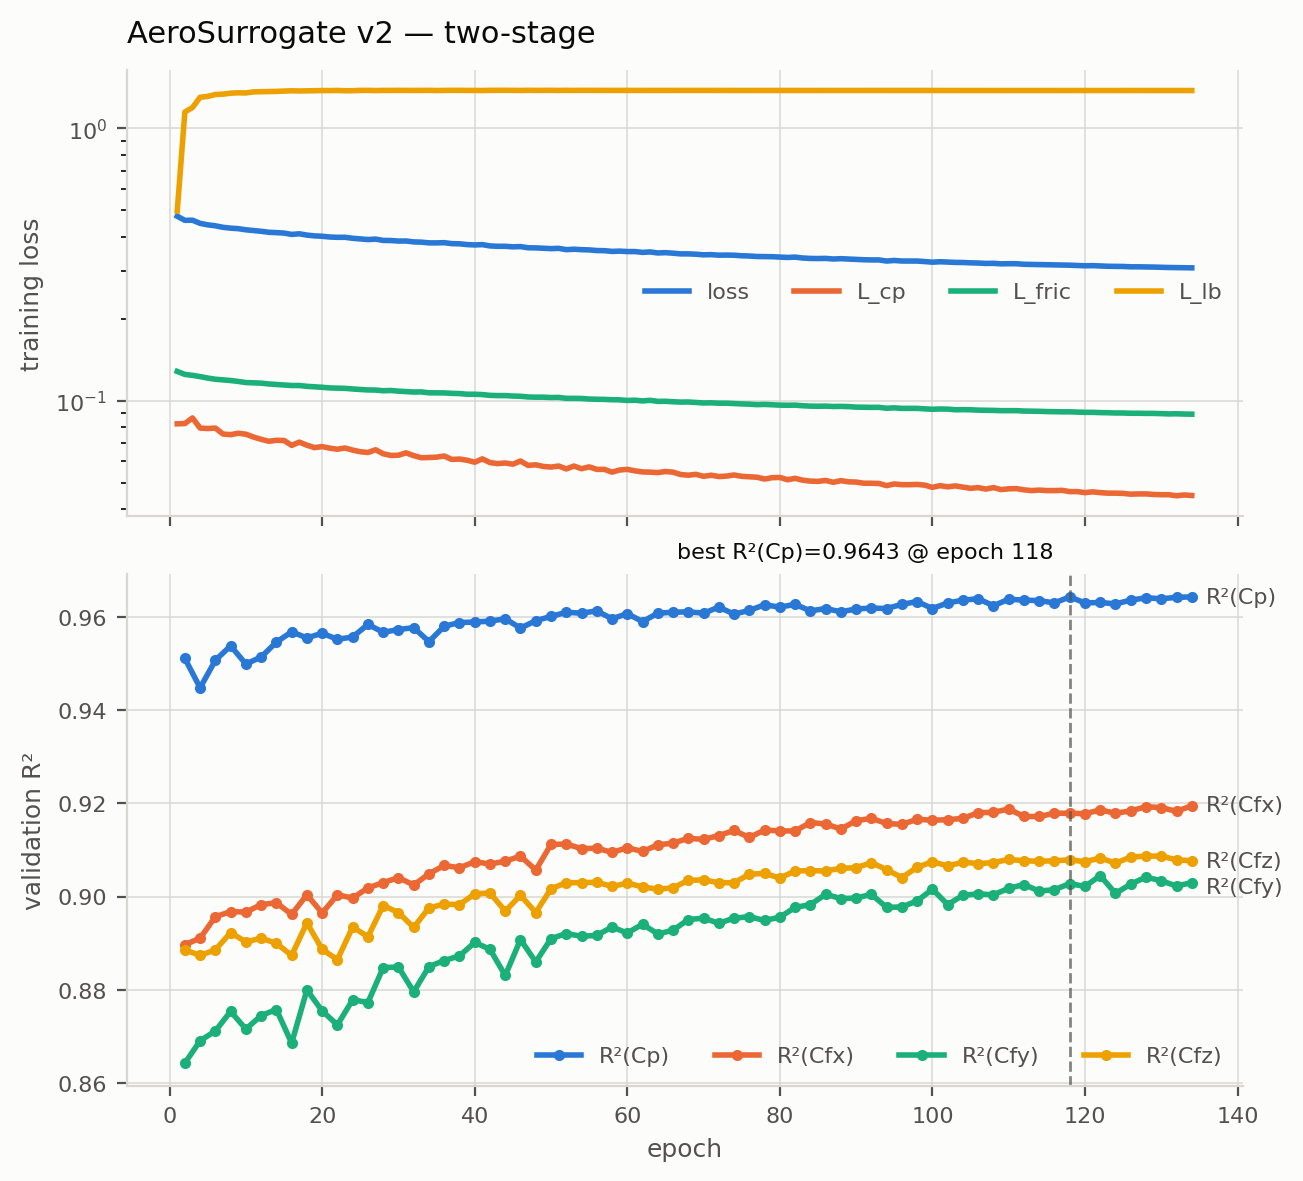
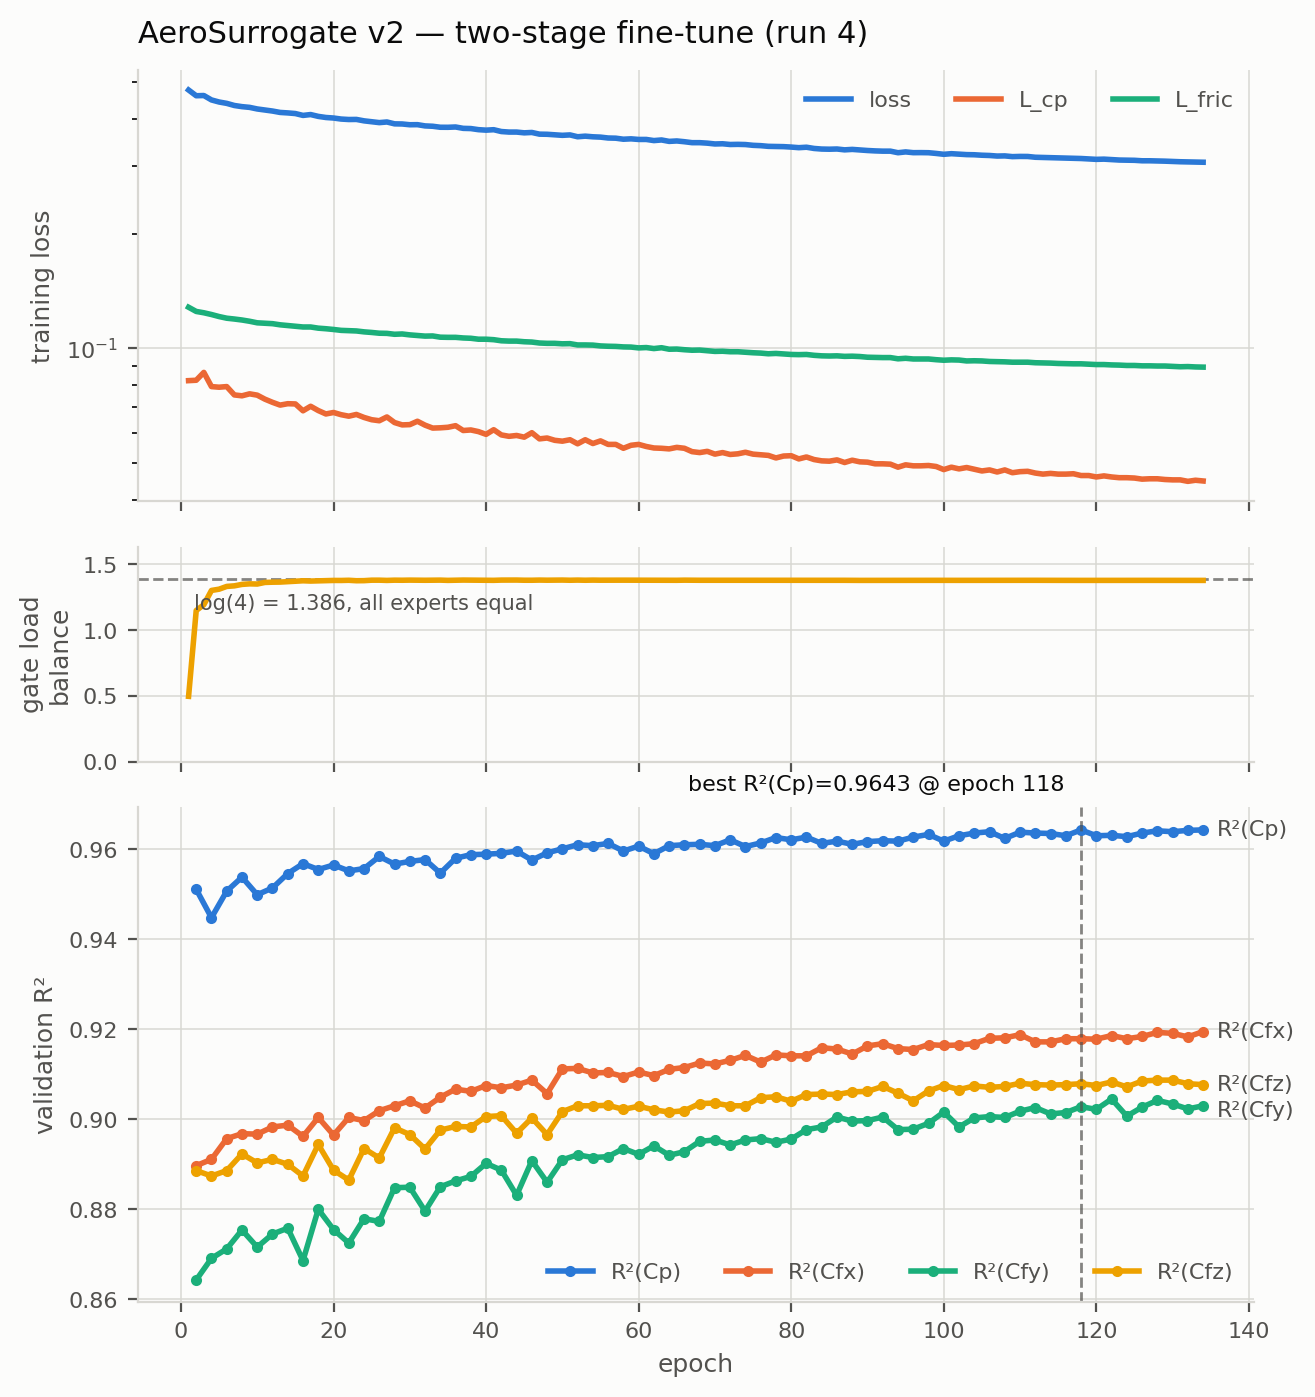
Record run 4 as the model to report; fix Tee buffering and the L_lb panel
Run 4 (two-stage, 200 epochs, DDP synchronised) converged on patience at
epoch 134, best at 118, and reaches R²(Cp) 0.9729 global / 0.9350 shock over
the held-out 140 sims — beating run 2 despite being measured on the stricter
unbiased subset rather than all 156.

The uploaded surrogate_v2_moefix_long_evaluation.txt was 0 bytes while the
report itself had landed in gate_moefix_long.txt via a shell redirect. The
empty file was my bug: _Tee never flushed, and the report is smaller than the
default buffer, so a run killed part-way wrote nothing at all instead of the
partial results it had already produced. Tee now flushes per write, and the
report is filed under its own name.

L_lb was being drawn in the training-loss panel, where an entropy the loss
*maximises* reads as a diverging run. It gets its own panel against the
log(num_experts) ceiling, which turns it into the clearest evidence in the
figure: load balance climbs 0.50 -> 1.379 within a few epochs and holds.

diff --git a/version 2/plot_training_curve.py b/version 2/plot_training_curve.py
@@ -13,6 +13,7 @@ Usage:
 """
 import argparse
 import csv
+import math
 import re
 import sys
 from pathlib import Path
@@ -94,15 +95,21 @@ def plot(rows, out_png, stop_epoch=None, title=None):
     matplotlib.use('Agg')
     import matplotlib.pyplot as plt
 
-    ep = [r['epoch'] for r in rows]
-    fig, (ax1, ax2) = plt.subplots(
-        2, 1, figsize=(7.2, 6.6), dpi=200, sharex=True,
-        gridspec_kw={'height_ratios': [1, 1.15], 'hspace': 0.12})
+    has_lb = any('L_lb' in r for r in rows)
+    n_rows = 3 if has_lb else 2
+    heights = [1, 0.5, 1.15] if has_lb else [1, 1.15]
+    fig, axes = plt.subplots(
+        n_rows, 1, figsize=(7.2, 8.0 if has_lb else 6.6), dpi=200, sharex=True,
+        gridspec_kw={'height_ratios': heights, 'hspace': 0.12})
+    ax1, ax2 = (axes[0], axes[-1])
+    ax_lb    = axes[1] if has_lb else None
     fig.patch.set_facecolor(SURFACE)
 
     # ── Panel A: training losses. Separate panel rather than a second y-axis:
     # losses and R² have unrelated scales and must never share an axis.
-    loss_keys = [k for k in ('loss', 'L_cp', 'L_fric', 'L_lb')
+    # L_lb is excluded — it is an entropy that the loss *maximises*, so showing
+    # it rising in a panel labelled "training loss" reads as a diverging run.
+    loss_keys = [k for k in ('loss', 'L_cp', 'L_fric')
                  if any(k in r for r in rows)]
     for i, k in enumerate(loss_keys):
         xs = [r['epoch'] for r in rows if k in r]
@@ -115,6 +122,24 @@ def plot(rows, out_png, stop_epoch=None, title=None):
     ax1.legend(frameon=False, fontsize=8, labelcolor=INK_MUTED, ncol=len(loss_keys))
     if title:
         ax1.set_title(title, color=INK, fontsize=11, loc='left', pad=10)
+
+    # ── Panel LB: MoE gate load balance. L_lb is the entropy of the mean gate;
+    # log(num_experts) means every expert carries an equal share, 0 means the
+    # gate has collapsed onto one. Shown against that ceiling so the reader can
+    # see how far from balanced the mixture actually is.
+    if ax_lb is not None:
+        xs = [r['epoch'] for r in rows if 'L_lb' in r]
+        ys = [r['L_lb'] for r in rows if 'L_lb' in r]
+        n_exp = 4
+        hmax  = math.log(n_exp)
+        ax_lb.axhline(hmax, color=INK_MUTED, linewidth=1, linestyle='--', alpha=0.7)
+        ax_lb.annotate(f'log({n_exp}) = {hmax:.3f}, all experts equal',
+                       xy=(xs[0], hmax), xytext=(2, -11),
+                       textcoords='offset points', fontsize=7.5, color=INK_MUTED)
+        ax_lb.plot(xs, ys, color=SERIES[3], linewidth=2)
+        ax_lb.set_ylim(0, hmax * 1.18)
+        _style(ax_lb)
+        ax_lb.set_ylabel('gate load\nbalance', color=INK_MUTED, fontsize=9)
 
     # ── Panel B: validation R², the early-stopping criterion.
     coefs = ['Cp', 'Cfx', 'Cfy', 'Cfz']

diff --git a/version 2/evaluate_v2.py b/version 2/evaluate_v2.py
@@ -20,13 +20,19 @@ from pathlib import Path
 
 
 class _Tee:
-    """Duplicates writes to stdout and a log file simultaneously."""
+    """Duplicates writes to stdout and a log file simultaneously.
+
+    Flushes on every write: the report is smaller than the default buffer, so
+    without this a run killed part-way leaves a 0-byte file instead of the
+    partial results it had already produced.
+    """
     def __init__(self, *streams):
         self.streams = streams
 
     def write(self, data):
         for s in self.streams:
             s.write(data)
+            s.flush()
 
     def flush(self):
         for s in self.streams:

diff --git a/version 2/outputs/README.md b/version 2/outputs/README.md
@@ -6,38 +6,54 @@ outputs/
 │   ├── scaler_v2.npy                       feature/target normalisation
 │   ├── spatial_stats_v2.npy                spatial stats fitted on train
 │   ├── surrogate_v2_best.pt                run 1 — MoE gate COLLAPSED
-│   ├── surrogate_v2_moefix.pt              run 2 — two-stage      ← best
-│   └── surrogate_v2_full.pt                run 3 — from scratch, fixed loss
+│   ├── surrogate_v2_moefix.pt              run 2 — two-stage
+│   ├── surrogate_v2_full.pt                run 3 — from scratch, fixed loss
+│   └── surrogate_v2_moefix_long.pt         run 4 — two-stage, 200ep, DDP fixed ← best
 ├── results/
 │   ├── v2_evaluation_collapsed_gate.txt    run 1
 │   ├── v2_evaluation_moefix.txt            run 2  (= surrogate_v2_moefix_evaluation.txt)
 │   ├── surrogate_v2_moefix_evaluation.txt  run 2, re-run under the derived name
-│   └── surrogate_v2_full_evaluation.txt    run 3
+│   ├── surrogate_v2_full_evaluation.txt    run 3
+│   ├── surrogate_v2_moefix_long_evaluation.txt  run 4, held-out 140 sims
+│   └── gate_moefix_long.txt                diagnose_gate.py on run 4
 └── plots/
-    └── gate_diagnostic_moefix.png          diagnose_gate.py on run 2
+    ├── gate_diagnostic_moefix.png          diagnose_gate.py on run 2
+    ├── moefix_long.png                     run 4 training curve
+    └── moefix_long.csv                     run 4 per-epoch metrics
 ```
 
-## The three runs
+## The four runs
 
-| | schedule | best epoch | stopped | converged? |
-|---|---|---|---|---|
-| `surrogate_v2_best.pt` | 200, from scratch | 157 | 174 | yes |
-| `surrogate_v2_moefix.pt` | 50, head-only fine-tune | 45 | 50 = **cap** | **no** |
-| `surrogate_v2_full.pt` | 200, from scratch | 175 | 192 | yes |
+| | schedule | best epoch | stopped | converged? | DDP |
+|---|---|---|---|---|---|
+| `surrogate_v2_best.pt` | 200, from scratch | 157 | 174 | yes | unsynced |
+| `surrogate_v2_moefix.pt` | 50, head-only fine-tune | 45 | 50 = **cap** | **no** | unsynced |
+| `surrogate_v2_full.pt` | 200, from scratch | 175 | 192 | yes | unsynced |
+| `surrogate_v2_moefix_long.pt` | 200, head-only fine-tune | 118 | 134 | yes | **synced** |
+
+"unsynced" means the run predates commit `9fe5f2e`: DDP was constructed and then
+bypassed, so gradients were never all-reduced and each rank trained alone on
+1/world_size of the sims. Those three checkpoints are penalised by however many GPUs
+they used; treat their numbers as a floor.
 
 **Run 1 — `surrogate_v2_best.pt`.** Trained *before* the load-balancing sign bug was
 found, so its MoE gate is collapsed onto a single expert. Keep it: it is the ablation
 baseline that shows what the mixture contributes.
 
 **Run 2 — `surrogate_v2_moefix.pt`.** Head-only fine-tune from run 1 with the corrected
-loss (`--freeze-backbone`, backbone = 75.4% of params held fixed). **Most accurate model
-by a clear margin.** Note it stopped at the epoch cap, not on patience — it was still
-improving.
+loss (`--freeze-backbone`, backbone = 75.4% of params held fixed). Superseded by run 4,
+which is the same recipe given enough epochs to converge — run 2 stopped at its cap, not
+on patience, so it was still improving when the budget ran out.
 
-**Run 3 — `surrogate_v2_full.pt`.** From scratch with the corrected loss. Healthiest
-gate of the three, converged properly — and yet *less accurate than run 2 everywhere*.
-Training the backbone and the gate together from scratch is worse than letting the
-backbone mature first and specialising the head afterwards.
+**Run 3 — `surrogate_v2_full.pt`.** From scratch with the corrected loss. Healthy gate,
+converged properly — and yet *less accurate than run 2 everywhere*. Training the backbone
+and the gate together from scratch came out worse than letting the backbone mature first
+and specialising the head afterwards.
+
+**Run 4 — `surrogate_v2_moefix_long.pt`.** Same two-stage recipe as run 2 (resume from
+run 1, `--freeze-backbone`) but with a 200-epoch budget and with DDP gradient
+synchronisation fixed. Converged on patience at epoch 134, best at 118. **This is the
+model to report.**
 
 ## What the fix changed
 
@@ -46,25 +62,31 @@ the gate toward collapse instead of away from it. Sign corrected in commit `45cb
 
 Gate diagnostics, 3 test sims (`python diagnose_gate.py 3 --ckpt <ckpt>`):
 
-| | run 1 collapsed | run 2 moefix | run 3 full |
-|---|---|---|---|
-| load balance (entropy of mean gate, max 1.3863) | 0.0771 — 5.6% | 1.3801 — 99.6% | **1.3832 — 99.8%** |
-| dead experts (<1% usage) | E1, E3 | none | none |
-| shock specialisation (TV, shock vs non-shock) | 0.0175 | 0.3167 | **0.3767** |
-| routing sharpness (mean per-node entropy) | 0.0009 | 0.0610 | 0.0347 |
+| | run 1 collapsed | run 2 moefix | run 3 full | run 4 moefix_long |
+|---|---|---|---|---|
+| load balance (entropy of mean gate, max 1.3863) | 0.0771 — 5.6% | 1.3801 — 99.6% | **1.3832 — 99.8%** | 1.3777 — 99.4% |
+| dead experts (<1% usage) | E1, E3 | none | none | none |
+| shock specialisation (TV, shock vs non-shock) | 0.0175 | 0.3167 | **0.3767** | 0.2789 |
+| routing sharpness (mean per-node entropy) | 0.0009 | 0.0610 | 0.0347 | 0.0817 |
+| shock indicator F1 | — | 0.9478 | 0.9254 | **0.9564** |
+| shock residual contribution to Cp MAE | — | +59.3% | +62.3% | **+78.6%** |
 
-Run 3 has the healthiest gate of the three — and in it the specialisation is physically
-legible: on shock nodes E2 and E3 carry 0.44 and 0.38, while off shock all four experts
-split roughly evenly. Gate health and accuracy came apart here; see the caveat below.
+Every run after the sign fix balances the gate to within 0.6% of uniform with no dead
+experts, so load balance no longer discriminates between them. Run 3 has the sharpest
+shock specialisation, and there it is physically legible: on shock nodes E2 and E3 carry
+0.44 and 0.38, while off shock all four experts split roughly evenly. But gate health and
+accuracy came apart — run 3 is the least accurate of the three fixed runs.
 
 Note the two entropies measure different things. Load balance is what `L_lb` optimises
-— whether all experts carry a share of the work. Routing sharpness stays near 0 in both
-runs, and that is *healthy*: each node commits to one expert. Collapse is load balance
+— whether all experts carry a share of the work. Routing sharpness stays near 0 in every
+run, and that is *healthy*: each node commits to one expert. Collapse is load balance
 near zero, not sharpness near zero.
 
 ## Accuracy, v1-comparable sample (SEED=42, frac=0.1, 4,068,074 pts)
 
-R², all three models on the identical sample and identical subset masks.
+R² over all 156 test sims, identical sample and identical subset masks. Run 4 is absent
+here because it was evaluated on the held-out 140 — see the section after this one, and
+caveat 1.
 
 | Subset | Coef | v1 (neural gate) | run 1 collapsed | run 3 full | run 2 moefix |
 |---|---|---|---|---|---|
@@ -93,16 +115,56 @@ the representation is still forming. This is worth stating as a deliberate two-s
 schedule rather than an accident — but it rests on one run per arm, so it is a hypothesis,
 not an established result. Repeated seeds would be needed to claim it.
 
+## Run 4 — the numbers to report
+
+Held-out test set: the 140 sims that never touched model selection
+(`--exclude-val-sims`), 36,508,360 points.
+
+| Subset | R²(Cp) | R²(Cfx) | R²(Cfy) | R²(Cfz) | MAE(Cp) |
+|---|---|---|---|---|---|
+| global | **0.9729** | 0.9172 | 0.9027 | 0.9209 | 0.027647 |
+| shock | **0.9350** | 0.8923 | 0.8692 | 0.9076 | 0.040479 |
+| transonic | 0.9842 | 0.9279 | 0.9167 | 0.9321 | 0.025027 |
+| subsonic | 0.9471 | 0.9005 | 0.8839 | 0.9086 | 0.041453 |
+
+Weighted R² (confidence_weight): Cp 0.9768, Cfx 0.9218, Cfy 0.9097, Cfz 0.9243.
+
+These beat run 2 (0.9689 global / 0.9264 shock) *despite* being measured on the harder,
+unbiased subset — run 2's figures include the 16 sims its own early stopping selected on.
+The true gap is therefore wider than the difference in the numbers suggests.
+
+Gate at run 4: load balance 1.3777 / 1.3863 (99.4% of uniform), no dead experts, shock
+specialisation 0.2789, shock indicator F1 0.9564. Ablating the additive residual
+`p_s * shock_expert(h)` costs 78.6% of the Cp MAE on shock nodes — its largest
+contribution across all four runs.
+
+`outputs/plots/moefix_long.png` shows the gate load balance climbing from 0.50 to 1.379
+within the first few epochs and holding there — the corrected loss doing its job, visible
+per-epoch for the first time now that `L_lb` is logged.
+
 ## Two caveats for the paper
 
-**1. Run 2 is not converged.** It stopped at its epoch cap (45 best of 50), not on
-patience, so it was still improving. Its numbers are a lower bound, and a longer
-`--freeze-backbone` schedule should be run before these go to press.
+**1. The comparison table is not measured on one common set.** Runs 1–3 were evaluated
+over all 156 test sims; run 4 over the held-out 140. Because the 16 excluded sims are the
+ones early stopping fit to, the all-156 figures flatter runs 1–3 and the held-out figures
+are stricter on run 4 — so run 4's lead is real and understated, but the rows are not
+strictly comparable. Before the table goes in the paper, re-run runs 1–3 with
+`--exclude-val-sims` so every row is measured over the same 140 sims:
 
-**2. Model selection used test simulations.** `main_train_v2.py` draws the 16 validation
-sims from the test set (`rng.choice(N_TEST, ...)` under `SEED=42` → sims 12, 14, 30, 62,
-63, 79, 93, 103, 109, 111, 112, 117, 122, 125, 146, 148). Early stopping picked the
-checkpoint on those sims, and every table above then reports over all 156, those 16
-included. The bias is diluted — 16 of 156 — and it is identical across all four models,
-so the comparison stands. The absolute values are optimistic. For publication, re-run
-with `--exclude-val-sims` to report over the 140 sims that never touched model selection.
+```bash
+python evaluate_v2.py --ckpt outputs/models/surrogate_v2_full.pt --exclude-val-sims \
+       --out outputs/results/full_heldout.txt
+python evaluate_v2.py --ckpt outputs/models/surrogate_v2_best.pt --exclude-val-sims \
+       --out outputs/results/collapsed_heldout.txt
+```
+
+Note also that under `--exclude-val-sims` the "v1-comparable sample" row is 3,650,836
+points drawn from 140 sims, not the 4,068,074 from 156 that v1 reported. It is the
+better number, but it is no longer a like-for-like sample against v1 — say so, or quote
+the all-156 run for that one comparison.
+
+**2. Runs 1–3 trained without DDP gradient synchronisation** (see the table above). If
+they used more than one GPU their numbers are depressed, which also puts the run 2 vs
+run 3 curriculum comparison in question: both carried the same handicap, so the ordering
+probably survives, but the conclusion should be re-checked with synchronised runs before
+it is claimed in the paper.
